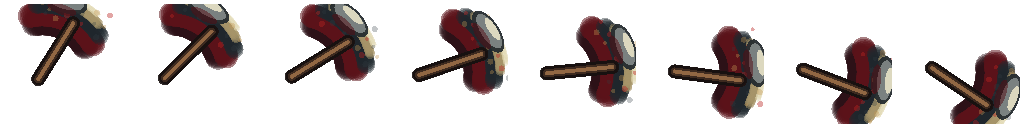
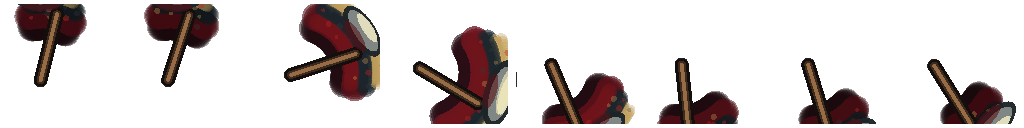
feat: improve weighted axe attack animation

diff --git a/tools/generateAxeSwingSheet.py b/tools/generateAxeSwingSheet.py
@@ -19,44 +19,81 @@ def main() -> None:
 
     for frame in range(FRAME_COUNT):
         x_offset = frame * FRAME_WIDTH
-        progress = frame / (FRAME_COUNT - 1)
-        start = math.radians(-58 + progress * 92)
-        draw_swing_frame(pixels, width, x_offset, start)
+        draw_swing_frame(pixels, width, x_offset, frame)
 
     OUT.parent.mkdir(parents=True, exist_ok=True)
     OUT.write_bytes(encode_png(width, height, pixels))
 
 
-def draw_swing_frame(pixels: bytearray, sheet_width: int, x_offset: int, angle: float) -> None:
+def draw_swing_frame(pixels: bytearray, sheet_width: int, x_offset: int, frame: int) -> None:
     cx = 42
     cy = 72
-    handle_length = 58
-    blade_distance = 74
+    angle_degrees = [-76, -72, -18, 31, 67, 84, 73, 58]
+    arc_widths = [0.46, 0.50, 0.92, 1.10, 0.84, 0.68, 0.56, 0.48]
+    intensity = [0.72, 0.74, 1.0, 1.25, 1.02, 0.88, 0.76, 0.68][frame]
+    angle = math.radians(angle_degrees[frame])
+    handle_length = 60
+    blade_distance = 76
     blade_angle = angle - 0.26
-    arc_start = angle - 0.72
-    arc_end = angle + 0.46
+    arc_start = angle - arc_widths[frame]
+    arc_end = angle + arc_widths[frame] * (0.58 if frame < 4 else 0.42)
 
-    draw_arc(pixels, sheet_width, x_offset, cx, cy, 50, arc_start, arc_end, 13, (43, 16, 22, 112))
-    draw_arc(pixels, sheet_width, x_offset, cx, cy, 58, arc_start - 0.06, arc_end + 0.04, 12, (91, 18, 25, 136))
-    draw_arc(pixels, sheet_width, x_offset, cx, cy, 68, arc_start + 0.08, arc_end - 0.02, 9, (30, 39, 45, 108))
-    draw_arc(pixels, sheet_width, x_offset, cx, cy, 74, arc_start + 0.18, arc_end - 0.16, 5, (168, 150, 105, 118))
-    draw_arc(pixels, sheet_width, x_offset, cx, cy, 80, arc_start + 0.26, arc_end - 0.26, 3, (224, 215, 176, 92))
-    draw_sparks(pixels, sheet_width, x_offset, cx, cy, arc_start, arc_end, frame_seed=int(angle * 1000))
+    draw_arc(pixels, sheet_width, x_offset, cx, cy, 47, arc_start, arc_end, 15, scale_color((33, 12, 17, 132), intensity))
+    draw_arc(pixels, sheet_width, x_offset, cx, cy, 58, arc_start - 0.03, arc_end + 0.04, 14, scale_color((86, 16, 24, 156), intensity))
+    draw_arc(pixels, sheet_width, x_offset, cx, cy, 69, arc_start + 0.06, arc_end - 0.01, 10, scale_color((22, 32, 38, 124), intensity))
+    draw_arc(pixels, sheet_width, x_offset, cx, cy, 76, arc_start + 0.12, arc_end - 0.10, 6, scale_color((166, 143, 92, 132), intensity))
+    draw_arc(pixels, sheet_width, x_offset, cx, cy, 84, arc_start + 0.20, arc_end - 0.20, 4, scale_color((224, 217, 176, 108), intensity))
+    if frame in [2, 3, 4]:
+        draw_impact_smear(pixels, sheet_width, x_offset, cx, cy, arc_start, arc_end, frame)
+    draw_sparks(pixels, sheet_width, x_offset, cx, cy, arc_start, arc_end, frame_seed=frame * 271)
 
     hx0 = cx + math.cos(angle + math.pi) * 8
     hy0 = cy + math.sin(angle + math.pi) * 8
     hx1 = cx + math.cos(angle) * handle_length
     hy1 = cy + math.sin(angle) * handle_length
-    draw_line(pixels, sheet_width, x_offset, hx0, hy0, hx1, hy1, 7, (24, 17, 16, 230))
+    draw_line(pixels, sheet_width, x_offset, hx0, hy0, hx1, hy1, 7, (20, 14, 13, 236))
     draw_line(pixels, sheet_width, x_offset, hx0, hy0, hx1, hy1, 4, (61, 42, 31, 248))
-    draw_line(pixels, sheet_width, x_offset, hx0, hy0, hx1, hy1, 2, (145, 103, 67, 236))
+    draw_line(pixels, sheet_width, x_offset, hx0, hy0, hx1, hy1, 2, (151, 108, 69, 238))
 
     bx = cx + math.cos(blade_angle) * blade_distance
     by = cy + math.sin(blade_angle) * blade_distance
-    draw_rotated_ellipse(pixels, sheet_width, x_offset, bx, by, 24, 11, blade_angle + math.pi / 2, (35, 42, 46, 238))
-    draw_rotated_ellipse(pixels, sheet_width, x_offset, bx + math.cos(blade_angle) * 1, by + math.sin(blade_angle) * 1, 20, 8, blade_angle + math.pi / 2, (126, 133, 132, 244))
-    draw_rotated_ellipse(pixels, sheet_width, x_offset, bx + math.cos(blade_angle) * 5, by + math.sin(blade_angle) * 5, 13, 4, blade_angle + math.pi / 2, (223, 218, 193, 248))
-    draw_rotated_ellipse(pixels, sheet_width, x_offset, bx - math.cos(blade_angle) * 8, by - math.sin(blade_angle) * 8, 15, 5, blade_angle + math.pi / 2, (83, 13, 19, 132))
+    blade_scale = 1.18 if frame == 3 else 1.0
+    draw_rotated_ellipse(pixels, sheet_width, x_offset, bx, by, 29 * blade_scale, 13 * blade_scale, blade_angle + math.pi / 2, (29, 36, 40, 246))
+    draw_rotated_ellipse(pixels, sheet_width, x_offset, bx + math.cos(blade_angle) * 1, by + math.sin(blade_angle) * 1, 24 * blade_scale, 9 * blade_scale, blade_angle + math.pi / 2, (130, 137, 134, 248))
+    draw_rotated_ellipse(pixels, sheet_width, x_offset, bx + math.cos(blade_angle) * 6, by + math.sin(blade_angle) * 6, 17 * blade_scale, 5 * blade_scale, blade_angle + math.pi / 2, (226, 221, 188, 252))
+    draw_rotated_ellipse(pixels, sheet_width, x_offset, bx - math.cos(blade_angle) * 9, by - math.sin(blade_angle) * 9, 18, 6, blade_angle + math.pi / 2, (89, 15, 21, 146))
+    if frame == 3:
+        draw_rotated_ellipse(pixels, sheet_width, x_offset, bx + 5, by - 2, 24, 6, blade_angle + math.pi / 2, (239, 229, 184, 172))
+
+
+def draw_impact_smear(
+    pixels: bytearray,
+    sheet_width: int,
+    x_offset: int,
+    cx: float,
+    cy: float,
+    start: float,
+    end: float,
+    frame: int,
+) -> None:
+    colors = [
+        (111, 20, 26, 98),
+        (29, 38, 44, 104),
+        (192, 158, 91, 94),
+    ]
+    for band in range(3):
+        radius = 50 + band * 13 + frame * 2
+        thickness = 8 - band
+        draw_arc(pixels, sheet_width, x_offset, cx, cy, radius, start + band * 0.07, end - band * 0.04, thickness, colors[band])
+
+
+def scale_color(color: tuple[int, int, int, int], intensity: float) -> tuple[int, int, int, int]:
+    return (
+        min(255, int(color[0] * intensity)),
+        min(255, int(color[1] * intensity)),
+        min(255, int(color[2] * intensity)),
+        min(255, int(color[3] * min(1.25, intensity))),
+    )
 
 
 def draw_sparks(

diff --git a/tools/generatePlayerActionSheets.py b/tools/generatePlayerActionSheets.py
@@ -33,9 +33,8 @@ def main() -> None:
     for step in range(COMBO_STEP_COUNT):
         for local_frame in range(ATTACK_BODY_FRAME_COUNT):
             sheet_frame = step * ATTACK_BODY_FRAME_COUNT + local_frame
-            progress = local_frame / (ATTACK_BODY_FRAME_COUNT - 1)
             source = idle_frames[(2 + local_frame) % IDLE_FRAME_COUNT]
-            action = make_attack_frame(source, step, progress)
+            action = make_attack_frame(source, step, local_frame)
             paste_frame(attack_pixels, FRAME_WIDTH * COMBO_STEP_COUNT * ATTACK_BODY_FRAME_COUNT, sheet_frame, action)
 
     shoot_pixels = bytearray(FRAME_WIDTH * SHOOT_FRAME_COUNT * FRAME_HEIGHT * 4)
@@ -49,38 +48,49 @@ def main() -> None:
     SHOOT_OUT.write_bytes(encode_png(FRAME_WIDTH * SHOOT_FRAME_COUNT, FRAME_HEIGHT, shoot_pixels))
 
 
-def make_attack_frame(source: bytearray, step: int, progress: float) -> bytearray:
-    windup = math.sin(progress * math.pi)
-    snap = math.sin(min(progress * 1.25, 1.0) * math.pi)
+def make_attack_frame(source: bytearray, step: int, local_frame: int) -> bytearray:
+    progress = local_frame / (ATTACK_BODY_FRAME_COUNT - 1)
+    timing = [0.00, 0.08, 0.46, 0.82, 1.00, 0.90][local_frame]
+    windup = 1.0 if local_frame in [1, 2] else max(0.0, 1.0 - timing)
+    snap = 1.0 if local_frame in [3, 4] else math.sin(min(timing * 1.3, 1.0) * math.pi)
+    impact = 1.0 if local_frame == 3 else 0.0
+    follow = 1.0 if local_frame >= 4 else 0.0
     step_biases = [
-        {"lean": 8.0, "shear": 7.0, "lift": 0.0, "blade_angle": -0.52},
-        {"lean": 12.0, "shear": 10.0, "lift": -4.0, "blade_angle": -0.92},
-        {"lean": 15.0, "shear": 12.0, "lift": -7.0, "blade_angle": -1.32},
+        {"lean": 14.0, "shear": 9.0, "lift": -1.0, "start": -1.28, "end": 0.28},
+        {"lean": 18.0, "shear": 12.0, "lift": -5.0, "start": -1.68, "end": 0.12},
+        {"lean": 22.0, "shear": 14.0, "lift": -8.0, "start": -2.02, "end": -0.06},
     ][step]
 
-    lean = (progress - 0.28) * step_biases["lean"] + windup * 5.0
-    shear = (progress - 0.36) * step_biases["shear"]
-    upper_lift = step_biases["lift"] * windup
+    lean = -8.0 * windup + step_biases["lean"] * timing + impact * 8.0 + follow * 3.0
+    shear = -5.0 * windup + (timing - 0.32) * step_biases["shear"] + impact * 5.0
+    upper_lift = step_biases["lift"] * (windup * 0.8 + impact * 0.35)
     dest = warp_body(source, lean, upper_lift, shear)
 
-    x0 = 101 + step * 2 + snap * 8
-    y0 = 171 - step * 12 - windup * 8
-    reach = 48 + step * 9 + snap * 16
-    angle = step_biases["blade_angle"] + progress * (1.55 + step * 0.12)
+    x0 = 94 + step * 3 + timing * 17 + impact * 8
+    y0 = 174 - step * 12 - windup * 15 + follow * 5
+    reach = 50 + step * 10 + snap * 24 + impact * 10
+    angle = step_biases["start"] + timing * (step_biases["end"] - step_biases["start"])
     x1 = x0 + math.cos(angle) * reach
     y1 = y0 + math.sin(angle) * reach
 
-    draw_line(dest, x0 - 10, y0 + 22, x1, y1, 6, (18, 13, 13, 232))
-    draw_line(dest, x0 - 8, y0 + 20, x1, y1, 3, (101, 74, 51, 232))
-    blade_x = x1 + math.cos(angle) * 14
-    blade_y = y1 + math.sin(angle) * 14
-    draw_rotated_ellipse(dest, blade_x, blade_y, 21, 9, angle + math.pi / 2, (33, 38, 42, 234))
-    draw_rotated_ellipse(dest, blade_x + math.cos(angle) * 4, blade_y + math.sin(angle) * 4, 14, 5, angle + math.pi / 2, (155, 149, 124, 204))
+    draw_line(dest, x0 - 12, y0 + 23, x1, y1, 7, (17, 12, 12, 238))
+    draw_line(dest, x0 - 9, y0 + 20, x1, y1, 4, (97, 69, 46, 236))
+    draw_line(dest, x0 - 7, y0 + 18, x1, y1, 2, (168, 120, 72, 218))
+    blade_x = x1 + math.cos(angle) * (17 + impact * 4)
+    blade_y = y1 + math.sin(angle) * (17 + impact * 4)
+    blade_scale = 1.28 if impact else 1.0
+    draw_rotated_ellipse(dest, blade_x, blade_y, 27 * blade_scale, 12 * blade_scale, angle + math.pi / 2, (29, 36, 40, 244))
+    draw_rotated_ellipse(dest, blade_x + math.cos(angle) * 3, blade_y + math.sin(angle) * 3, 21 * blade_scale, 8 * blade_scale, angle + math.pi / 2, (132, 138, 134, 238))
+    draw_rotated_ellipse(dest, blade_x + math.cos(angle) * 7, blade_y + math.sin(angle) * 7, 15 * blade_scale, 5 * blade_scale, angle + math.pi / 2, (229, 222, 186, 236))
+    if impact:
+        draw_rotated_ellipse(dest, blade_x + 7, blade_y - 1, 25, 5, angle + math.pi / 2, (241, 232, 184, 150))
 
     arc_start = angle - 0.48 - step * 0.08
-    arc_end = angle + 0.34
-    draw_arc(dest, x0, y0 + 16, 54 + step * 8, arc_start, arc_end, 7, (83, 17, 23, 76))
-    draw_arc(dest, x0, y0 + 18, 63 + step * 8, arc_start + 0.1, arc_end - 0.04, 4, (175, 137, 79, 58))
+    arc_end = angle + 0.34 + impact * 0.30
+    draw_arc(dest, x0, y0 + 16, 54 + step * 8 + impact * 8, arc_start, arc_end, 8, (83, 17, 23, 86 + int(impact * 36)))
+    draw_arc(dest, x0, y0 + 18, 63 + step * 8 + impact * 10, arc_start + 0.1, arc_end - 0.04, 5, (185, 145, 86, 66 + int(impact * 50)))
+    if local_frame == 2:
+        draw_arc(dest, x0, y0 + 18, 60 + step * 7, angle - 0.94, angle + 0.18, 11, (57, 15, 20, 88))
     draw_cloth_pull(dest, step, progress)
     clear_gutters(dest)
     return dest

diff --git a/.agents/skills/pixel-action-animation/SKILL.md b/.agents/skills/pixel-action-animation/SKILL.md
@@ -1,0 +1,45 @@
+---
+name: pixel-action-animation
+description: Design and refine 2D pixel/hi-bit action animations with classic game-art techniques such as anticipation, biased timing, smear frames, impact poses, follow-through, clusters, manual anti-aliasing, and Godot-ready sprite contracts.
+---
+
+# Pixel Action Animation
+
+Use this skill when a 2D action sprite or effect feels cheap, weightless, too even-timed, or too much like early 8-bit placeholder art.
+
+## Sources To Consult
+
+- Pixnote animation guide: frame planning, keyframes, attack motion, impact expansion. https://pixnote.net/en/learn/animation/
+- Pixel Parmesan anti-aliasing guide: manual AA, subpixel animation, avoiding tangents and edge blur. https://pixelparmesan.com/blog/anti-aliasing-fundamentals-for-pixel-artists
+- Purloux antialiasing tutorial: sub-pixel accuracy and palette-conscious smoothing. https://purloux.com/artwork/tutorials/aa/
+- Smear frame references: one-frame/few-frame motion blur for very fast motion. https://en.wikipedia.org/wiki/Smear_frame
+- Classic animation principles: anticipation, follow-through, overlapping action. https://en.wikipedia.org/wiki/Anticipation_%28animation%29 and https://en.wikipedia.org/wiki/Follow_through_and_overlapping_action
+
+## Heavy Attack Recipe
+
+For axes, greatswords, hammers, and other heavy weapons, avoid evenly spaced rotations. Use a biased timing arc:
+
+1. **Anticipation**: pull the torso and weapon opposite the hit direction. Keep feet planted.
+2. **Held weight**: spend an extra pose/frame near the wind-up so the weapon reads as heavy.
+3. **Snap/smear**: move the weapon a long distance in one frame; use a broad but readable smear or afterimage.
+4. **Impact**: show the blade/head clearly, add metal highlight, dark contact arc, and optionally a compact flash.
+5. **Follow-through**: overshoot past the target line; cloth/hair trails behind the torso.
+6. **Recovery**: settle the torso and weapon with less motion than the strike.
+
+## Pixel/Hi-Bit Rendering Rules
+
+- Keep a stable canvas, foot baseline, and transparent gutter for every frame.
+- Favor strong silhouettes over small internal detail.
+- Use clusters of shadow/highlight rather than noisy single-pixel speckles.
+- Use manual anti-aliasing only on important curves or metal edges; do not blur every outer edge.
+- Use subpixel motion sparingly: shift highlights, shadows, or cloth pixels without moving the whole body.
+- Smears should be short-lived and shaped along the attack arc. Too many smear frames reduce readability.
+
+## Validation Checklist
+
+- Wind-up to impact has a bigger visual delta than idle-to-wind-up.
+- The impact frame has a readable weapon head, not just a colored streak.
+- Body center of mass shifts into the hit direction.
+- Feet remain visually planted during anticipation and contact.
+- Cloth/hair/mantle shows delayed follow-through.
+- The accessory/VFX layer can be retimed independently from the body layer.
